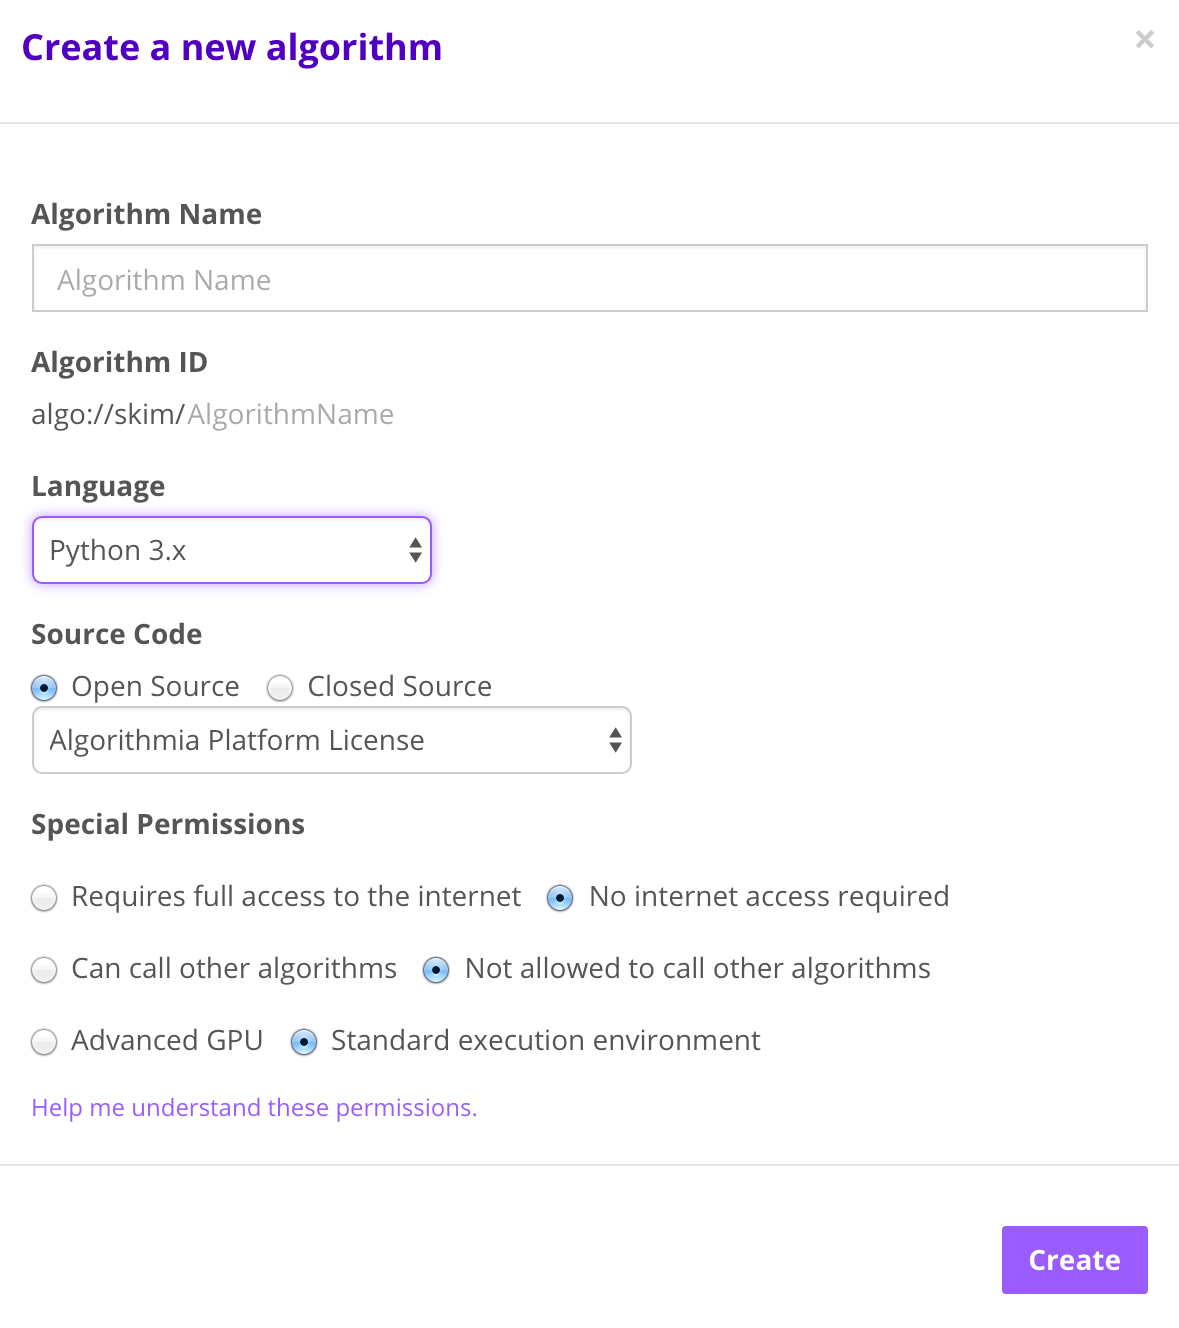
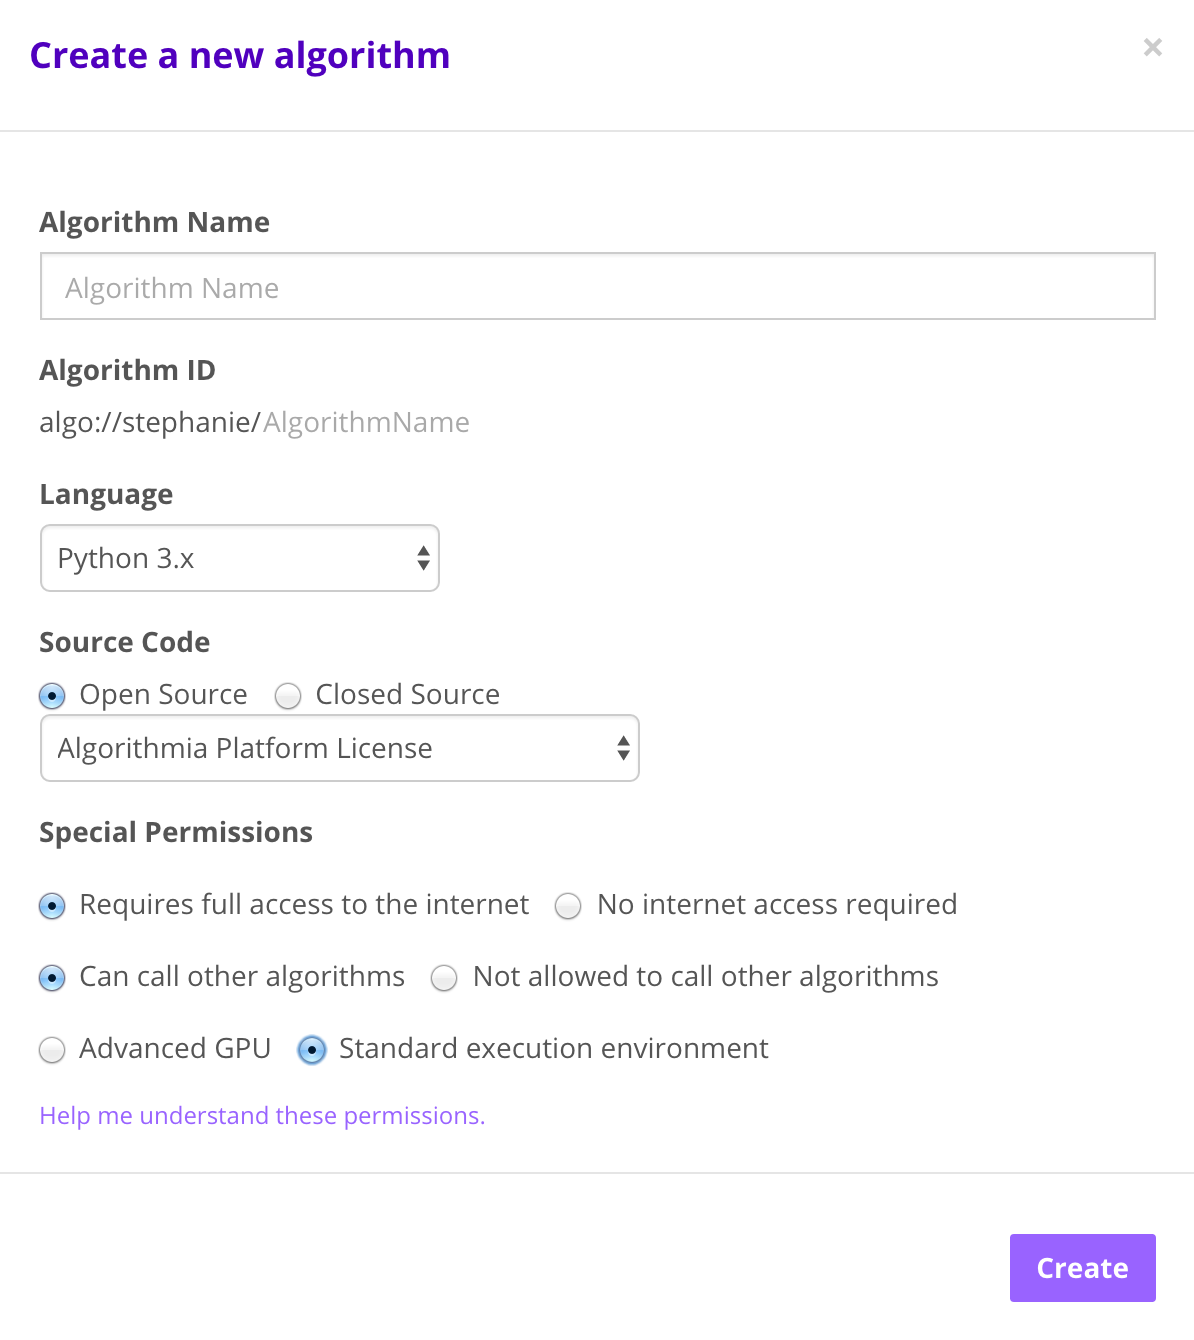
changed screenshots for GPU's

diff --git a/_posts/algorithm-development/guides/2016-05-26-scikit-guide.md b/_posts/algorithm-development/guides/2016-05-26-scikit-guide.md
@@ -66,44 +66,39 @@ Now to check out a code example using the <a href="http://scikit-learn.org/stabl
 
 {% highlight python %}
 import pickle
-
-import Algorithmia
-import pandas as pd
 import numpy as np
-from sklearn.cross_validation import train_test_split
-from sklearn.ensemble import RandomForestRegressor
-from sklearn.metrics import mean_squared_error
+import Algorithmia
 
+from sklearn.datasets import load_boston
+from sklearn.ensemble import RandomForestRegressor
+
+# For demonstration just load the sample dataset not used in model and
+# pass in 'test' as the input for the apply() function when calling the
+# algorithm in the console.
+dataset = load_boston()
 client = Algorithmia.client()
-test_data_path = 'data://user_name/another_test/day.csv'
-test_data_name = client.file(test_data_path).getFile().name
 
 def load_model():
     # Get file by name
     # Open file and load model
-    file_path = 'data://user_name/another_test/scikit-model.pkl'
+    file_path = 'data://stephanie/demos/scikit-demo-boston-regression.pkl'
     model_path = client.file(file_path).getFile().name
     # Open file and load model
     with open(model_path, 'rb') as f:
         model = pickle.load(f)
         return model
 
+# Load model outside of the apply function so it only gets loaded once
 model = load_model()
 
 def apply(input):
-    # input = {'features': list, 'targ': str}
-    # 'features' should be a list of columns that you want
-    # your model to use to predict your target
-    test = pd.read_csv(test_data_name)
-    columns = input['features']
-    target = input['targ']
-    # Predict our test data
-    predict = model.predict(test[columns])
-    # Compute the error
-    error = mean_squared_error(test[target], predict)
-    some_data = {'error': error, 'predict': predict)
-    # Do something with your model and return useful output for the user
-    return some_data
+    # If you want to play around with the algorithm you can
+    # create your own and pass in your own housing price dataset
+    # as input and change 'test' to input so it would be model.predict(input)
+    test = dataset.data[200:]
+    prediction = model.predict(test)
+    print(prediction)
+
 {% endhighlight %}
 
 **NOTE** If you are authoring an algorithm, avoid using the ‘.my’ pseudonym in the source code. When the algorithm is executed, ‘.my’ will be interpreted as the user name of the user who called the algorithm, rather than the author’s user name.

diff --git a/_posts/algorithm-development/guides/2016-05-26-nltk-guide.md b/_posts/algorithm-development/guides/2016-05-26-nltk-guide.md
@@ -73,51 +73,43 @@ Here is some code that has been adapted from the NLTK online books tutorial <a h
 
 {% highlight python %}
 """
-Algorithm to label names female or male
-Test set must be a list of features: [({'last_letter': 'e'}, 'female'),
-({'last_letter': 'e'}, 'male'), ({'last_letter': 'e'}, 'female'),
-({'last_letter': 'w'}, 'male'), ({'last_letter': 'a'}, 'female')]
+NLTK algorithm to label names female or male based on last letter of names
+
+Input: String
+Note when testing in console do not add quotations to input since
+it counts the quotations as part of the input.
 """
 
 import Algorithmia
 import csv
 import pickle
-from nltk.classify import accuracy
 
 client = Algorithmia.client()
-
 
 def load_model():
     # Get file by name
     # Open file and load model
-    file_path = 'data://user_name/demos/gender_model.pkl'
+    file_path = 'data://stephanie/demos/gender_model.pkl'
     model_path = client.file(file_path).getFile().name
     # Open file and load model
     with open(model_path, 'rb') as f:
         model = pickle.load(f)
         return model
 
+# Load model outside of apply function
+# This gets loaded once when called outside the apply function
 classifier = load_model()
 
-
 def gender_features(word):
-    # Last letter as feature.
+    # Last letter as feature
+    print("word", word[-1])
     return {'last_letter': word[-1]}
-
-def test_data():
-    test_file = client.file('data://user_name/demos/gender_test_data.csv').getFile().name
-    with open(test_file, 'rb') as f:
-        test_data = csv.reader(f, delimiter=',')
-        data = [row for row in test_data]
-        return data
 
 def apply(input):
     name = input
-    informative_features = classifier.show_most_informative_features(5)
-    test_set = test_data()
-    output = {'gender': classifier.classify(gender_features(
-        name)), 'accuracy': accuracy(classifier, test_set),
-        'informative_features': informative_features}
+    model = classifier.classify(gender_features(name))
+    output = {'gender': model}
+    print(output)
     return output
 
 {% endhighlight %}

diff --git a/_posts/basics/2016-01-28-your_first_algo.md b/_posts/basics/2016-01-28-your_first_algo.md
@@ -22,7 +22,7 @@ When you open the navigation dropdown at the top of the page, you'll find a purp
 By clicking this button, you'll be prompted with a dialog that allows you to give your algorithm a name and set some initial properties, such as the name, language, license, and special permissions:
 
 <br>
-![New Algorithm settings](/images/post_images/your_first_algo/algo_settings.png)
+<img src="/images/post_images/model_hosting/create_new_alg_python3.png" alt="Create your algorithm" class="screenshot">
 
 You can learn more about these properties in the [Algorithm Basics](http://developers.algorithmia.com/basics/algorithm_basics/) article.
 

diff --git a/_posts/algorithm-development/guides/2016-06-21-tensorflow-guide.md b/_posts/algorithm-development/guides/2016-06-21-tensorflow-guide.md
@@ -51,7 +51,7 @@ Creating your algorithm is easy!
 
 **Note**: There is also a checkbox for 'Standard Execution Environment' or 'Advanced GPU'. For deep learning models you will want to check 'Advanced GPU'.
 
-<img src="/images/post_images/model_hosting/create_new_alg_python3.png" alt="Create your algorithm" class="screenshot">
+<img src="/images/post_images/model_hosting/create_new_alg_dl_python3.png" alt="Create your algorithm" class="screenshot">
 
 ### Set your Dependencies
 Now is the time to set your dependencies that your model relies on.

diff --git a/_posts/algorithm-development/guides/2016-06-27-caffe-guide.md b/_posts/algorithm-development/guides/2016-06-27-caffe-guide.md
@@ -53,7 +53,7 @@ Creating your algorithm is easy!
 
 **Note**: There is also a checkbox for 'Standard Execution Environment' or 'Advanced GPU'. For deep learning models you will want to check 'Advanced GPU'.
 
-<img src="/images/post_images/model_hosting/create_new_alg_python2.png" alt="Create your algorithm" class="screenshot">
+<img src="/images/post_images/model_hosting/create_new_alg_dl_python2.png" alt="Create your algorithm" class="screenshot">
 
 ### Set your Dependencies
 Now is the time to set your dependencies that your model relies on.

diff --git a/_posts/algorithm-development/guides/2016-06-27-theano-guide.md b/_posts/algorithm-development/guides/2016-06-27-theano-guide.md
@@ -53,7 +53,7 @@ Creating your algorithm is easy!
 
 **Note**: There is also a checkbox for 'Standard Execution Environment' or 'Advanced GPU'. For deep learning models you will want to check 'Advanced GPU'.
 
-<img src="/images/post_images/model_hosting/create_new_alg_python3.png" alt="Create your algorithm" class="screenshot">
+<img src="/images/post_images/model_hosting/create_new_alg_dl_python3.png" alt="Create your algorithm" class="screenshot">
 
 ### Set your Dependencies
 Now is the time to set your dependencies that your model relies on.
